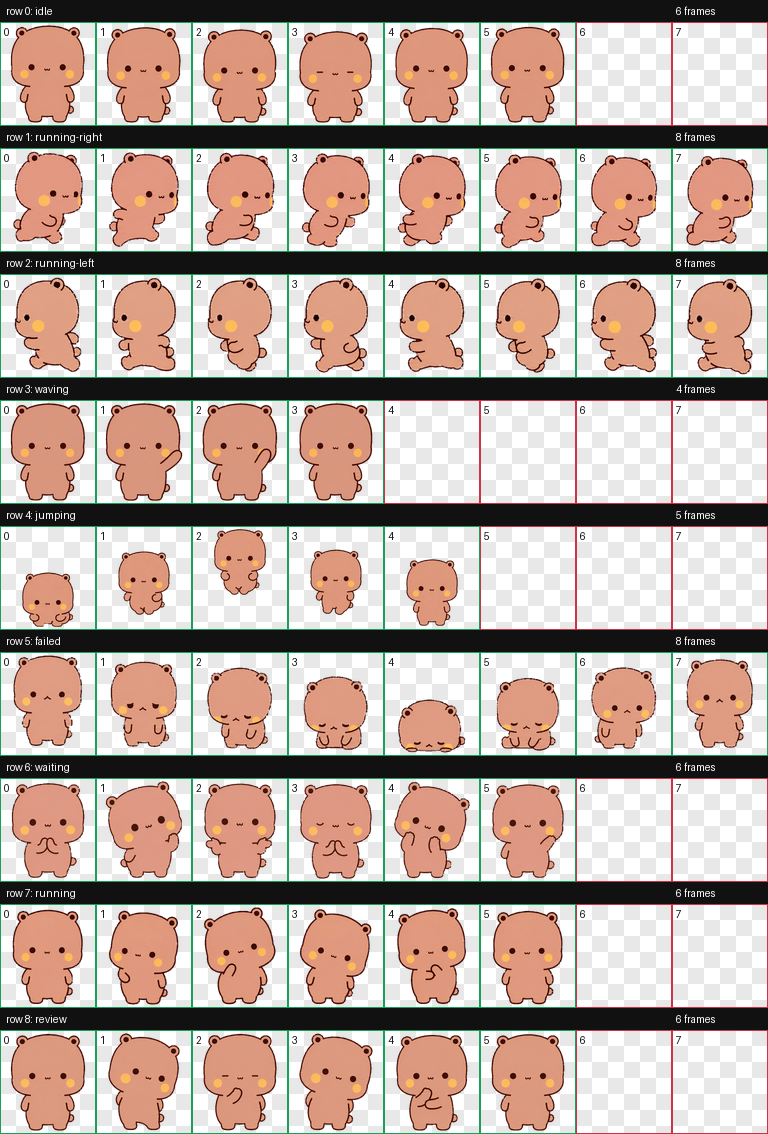
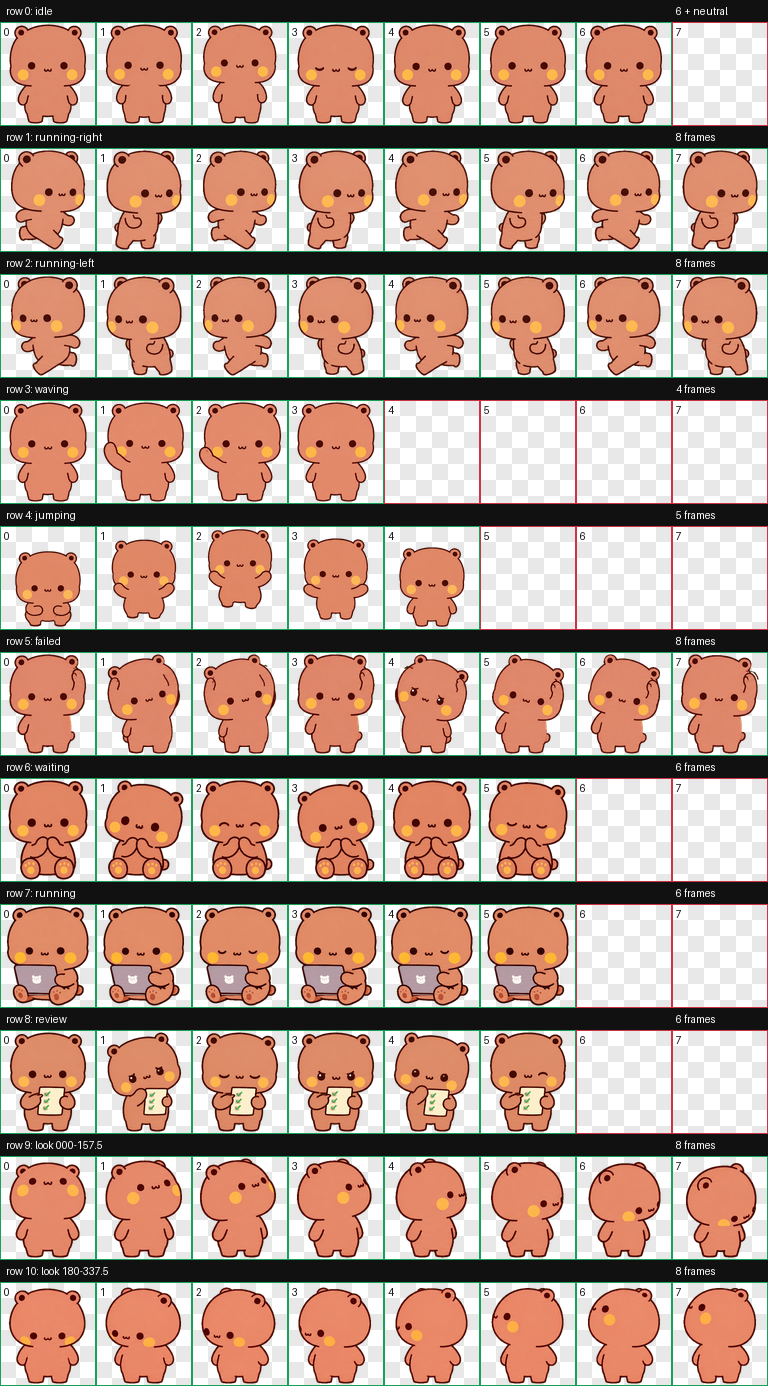
test: validate final v2 pet assets and task variants on both platforms

diff --git a/scripts/build_xiaohongshu_cards.py b/scripts/build_xiaohongshu_cards.py
@@ -47,12 +47,12 @@ def gradient(top: tuple[int, int, int], bottom: tuple[int, int, int]) -> Image.I
     return canvas.convert("RGBA")
 
 
-def sprite(pet_id: str, sleeping: bool = False, row: int = 0, activity: str | None = None) -> Image.Image:
+def sprite(pet_id: str, sleeping: bool = False, row: int = 0, activity: str | None = None, frame: int = 0) -> Image.Image:
     filename = "spritesheet-night.webp" if sleeping else "spritesheet.webp"
     if activity:
         filename = f"variants/{activity}-{'sleep' if sleeping else 'awake'}.webp"
     atlas = Image.open(ROOT / "pets" / pet_id / filename).convert("RGBA")
-    return atlas.crop((0, row * CELL[1], CELL[0], (row + 1) * CELL[1]))
+    return atlas.crop((frame * CELL[0], row * CELL[1], (frame + 1) * CELL[0], (row + 1) * CELL[1]))
 
 
 def fit_sprite(image: Image.Image, max_width: int, max_height: int) -> Image.Image:
@@ -103,7 +103,7 @@ def build_cover() -> None:
     canvas.alpha_composite(bubu, (785 - bubu.width // 2, 730))
     text_center(draw, (265, 1180), "一二", F_LABEL, (77, 58, 55, 255))
     text_center(draw, (785, 1180), "布布", F_LABEL, (77, 58, 55, 255))
-    badge(draw, (348, 1257), "GitHub 已开源", (87, 71, 68, 230), (255, 255, 255, 255))
+    badge(draw, (400, 1257), "安装代码已开源", (87, 71, 68, 230), (255, 255, 255, 255))
     footer(draw)
     canvas.convert("RGB").save(OUTPUT / "01-cover.png", quality=95)
 
@@ -127,7 +127,7 @@ def build_sleep() -> None:
         draw.rounded_rectangle(rect, radius=30, fill=(255, 255, 255, 225))
         text_center(draw, (left + 232, top + 10), label, F_LABEL, (59, 65, 102, 255))
         for pet_id, center_x in (("yier", left + 125), ("bubu", left + 340)):
-            pet = fit_sprite(sprite(pet_id, sleeping, row, activity), 175, 160)
+            pet = fit_sprite(sprite(pet_id, sleeping, row, activity, 2 if row == 5 else 0), 175, 160)
             canvas.alpha_composite(pet, (center_x - pet.width // 2, top + 53 + 160 - pet.height))
     text_center(draw, (540, 1320), "22:00–08:00，空闲时自动入睡", F_SMALL, (67, 73, 111, 255))
     footer(draw)
@@ -143,9 +143,8 @@ def build_install() -> None:
     draw.rounded_rectangle((65, 475, 1015, 1035), radius=45, fill=(44, 40, 40, 245))
     badge(draw, (100, 535), "复制这句话", (229, 177, 159, 255), (51, 42, 39, 255))
     command_lines = [
-        "帮我安装或更新这两个宠物：",
-        "https://github.com/skye-luo/",
-        "yier-bubu-codex-pets",
+        "帮我安装或更新这个宠物包：",
+        "https://github.com/skye-luo/yier-bubu-codex-pets",
     ]
     for index, command in enumerate(command_lines):
         draw.text((100, 665 + index * 72), command, font=F_CODE, fill=(245, 241, 237, 255))

diff --git a/tests/test_scheduler_integration.py b/tests/test_scheduler_integration.py
@@ -1,0 +1,48 @@
+"""Run the real scheduler against an isolated home, never the live app."""
+import json
+import os
+from pathlib import Path
+import subprocess
+import sys
+import tempfile
+import unittest
+
+
+ROOT = Path(__file__).resolve().parents[1]
+
+
+class SchedulerIntegrationTests(unittest.TestCase):
+    def test_all_task_and_time_combinations_preserve_point_and_selection(self):
+        with tempfile.TemporaryDirectory() as folder:
+            home = Path(folder) / ".codex"
+            assets = home / "pet-sleep-mode" / "assets"
+            assets.mkdir(parents=True)
+            config = '[desktop]\nselected-avatar-id = "custom:bubu"\n'
+            (home / "config.toml").write_text(config, encoding="utf-8")
+            for pet in ("yier", "bubu", "dianzai"):
+                (home / "pets" / pet).mkdir(parents=True)
+                for mode in ("awake", "sleep"):
+                    (assets / f"{pet}-{mode}.webp").write_bytes(f"{pet}:{mode}".encode())
+                    if pet != "dianzai":
+                        for kind in ("research", "writing"):
+                            (assets / f"{pet}-{kind}-{mode}.webp").write_bytes(f"{pet}:{kind}:{mode}".encode())
+            env = dict(os.environ, CODEX_PET_NODE=str(home / "no-live-app"))
+            for mode in ("awake", "sleep"):
+                for kind in ("coding", "research", "writing"):
+                    command = [sys.executable, str(ROOT / "scripts/pet_sleep_scheduler.py"),
+                               "--codex-root", str(home), "--mode", mode, "--activity", kind]
+                    subprocess.run(command, check=True, env=env, capture_output=True)
+                    for pet in ("yier", "bubu", "dianzai"):
+                        suffix = f"{kind}:{mode}" if pet != "dianzai" and kind != "coding" else mode
+                        self.assertEqual((home / "pets" / pet / "spritesheet.webp").read_bytes(), f"{pet}:{suffix}".encode())
+                    state = json.loads((home / "pet-sleep-mode/state.json").read_text())
+                    self.assertEqual((state["last_mode"], state["last_activity"]), (mode, kind))
+                    self.assertEqual((home / "config.toml").read_text(), config)
+            before = (home / "pets/bubu/spritesheet.webp").read_bytes()
+            subprocess.run(command[:-4] + ["--mode", "awake", "--activity", "coding", "--dry-run"],
+                           check=True, env=env, capture_output=True)
+            self.assertEqual((home / "pets/bubu/spritesheet.webp").read_bytes(), before)
+
+
+if __name__ == "__main__":
+    unittest.main()

diff --git a/scripts/pet_sleep_scheduler.py b/scripts/pet_sleep_scheduler.py
@@ -28,8 +28,11 @@ SETTING_RE = re.compile(
 
 
 def parse_args() -> argparse.Namespace:
-    codex_root = Path(os.environ.get("CODEX_HOME", Path.home() / ".codex"))
-    runtime_root = codex_root / "pet-sleep-mode"
+    script_root = Path(__file__).resolve().parent
+    codex_root = (
+        script_root.parent if script_root.name == "pet-sleep-mode"
+        else Path(os.environ.get("CODEX_HOME", Path.home() / ".codex"))
+    )
     parser = argparse.ArgumentParser(
         description=(
             "22:00–08:00 自动把一二/布布的待机动作换成睡觉，"
@@ -57,19 +60,19 @@ def parse_args() -> argparse.Namespace:
     parser.add_argument(
         "--assets",
         type=Path,
-        default=runtime_root / "assets",
+        default=None,
         help="白天/夜间图集目录。",
     )
     parser.add_argument(
         "--config",
         type=Path,
-        default=codex_root / "config.toml",
+        default=None,
         help="Codex config.toml 路径；只用于迁移旧睡觉宠物 ID。",
     )
     parser.add_argument(
         "--state",
         type=Path,
-        default=runtime_root / "state.json",
+        default=None,
         help="记录最近一次图集切换结果。",
     )
     parser.add_argument(
@@ -77,7 +80,12 @@ def parse_args() -> argparse.Namespace:
         action="store_true",
         help="只输出目标，不修改图集、配置或状态。",
     )
-    return parser.parse_args()
+    args = parser.parse_args()
+    runtime_root = args.codex_root / "pet-sleep-mode"
+    args.assets = args.assets or runtime_root / "assets"
+    args.config = args.config or args.codex_root / "config.toml"
+    args.state = args.state or runtime_root / "state.json"
+    return args
 
 
 def get_selected_avatar(config_text: str) -> str | None:

diff --git a/scripts/activity_state.py b/scripts/activity_state.py
@@ -14,8 +14,8 @@ MAX_AGE_SECONDS = 30 * 60
 HOLD_SECONDS = 30
 KINDS = ("coding", "research", "writing")
 PATTERNS = {
-    "research": r"查资料|查找资料|搜索|调研|检索|search_query|web__run|web\.run|research|browse|look up",
-    "writing": r"写作|写文章|写报告|写文案|写正文|写周报|写方案|写邮件|做PPT|做演示|写文档|规划|润色|改写|生成文档|docx|pptx|write (?:a |an )?(?:report|article|email)|draft",
+    "research": r"查.{0,4}资料|搜索|调研|检索|search_query|web__run|web\.run|research|browse|look up",
+    "writing": r"写作|写.{0,8}(?:文章|报告|文案|正文|周报|方案|邮件|文档)|(?:做|制作|生成).{0,4}(?:PPT|演示)|规划|润色|改写|生成文档|docx|pptx|write (?:a |an )?(?:report|article|email)|draft",
     "coding": r"写代码|编程|修复|修bug|改代码|开发|实现|测试|重构|coding|debug|refactor|pytest|npm test|apply_patch",
 }
 

diff --git a/tests/test_activity_state.py b/tests/test_activity_state.py
@@ -45,6 +45,11 @@ class ActivityTests(unittest.TestCase):
         self.assertEqual(stable_activity("research", "same", state, now)[0], "writing")
         self.assertEqual(stable_activity("research", "new", state, now)[0], "research")
 
+    def test_conversational_chinese_requests(self):
+        for text, expected in [("写一篇文章", "writing"), ("帮我写一个小红书文案", "writing"),
+                               ("做个PPT", "writing"), ("查一下资料", "research")]:
+            self.assertEqual(classify(text), expected)
+
     def test_day_night_boundaries(self):
         for hour, expected in [(0, "sleep"), (7, "sleep"), (8, "awake"), (21, "awake"), (22, "sleep")]:
             self.assertEqual(desired_mode("auto", dt.datetime(2026, 9, 12, hour)), expected)

diff --git a/README.md b/README.md
@@ -1,12 +1,14 @@
-# 一二 × 布布：Codex 宠物
+# 一二 × 布布 × 点仔：Codex 宠物
 
-一个只包含“一二”和“布布”的独立 Codex Desktop 宠物项目。v2.0.0 更新了两只宠物的形象和循环动作：白天精神满满，查资料抱书、写代码抱电脑、写作抱本子；晚上 22:00–次日 08:00 空闲时自动睡觉。
+统一的 Codex Desktop 宠物项目，包含“一二”“布布”和“点仔”。v2.0.0 更新了一二、布布的形象和循环动作：白天精神满满，查资料抱书、写代码抱电脑、写作抱本子；晚上 22:00–次日 08:00 空闲时自动睡觉。点仔原有形象、完整工作动画和夜间睡眠保持不变。
+
+原 `yier-bubu-codex-pet`（单数）项目的 Windows 安装和任务识别功能已合并至本项目（复数 `pets`）。今后的更新以这里为准；旧仓库、历史版本和下载链接保留。
 
 > 非官方、非商业的粉丝体验版本。角色素材不在 MIT 许可范围内，详见 [ASSET-NOTICE.md](ASSET-NOTICE.md)。
 
 ## 预览
 
-![新版形象与状态设计](docs/state-concept.png)
+![实际安装素材的八种状态](social/xiaohongshu/02-day-night.png)
 
 | 状态 | 常驻造型 |
 | --- | --- |
@@ -25,6 +27,8 @@
 | --- | --- |
 | ![一二待机动画](docs/previews/yier-idle.gif) | ![布布待机动画](docs/previews/bubu-idle.gif) |
 
+点仔继续保留：[白天动画](docs/previews/dianzai-idle.gif) · [夜间动画](docs/previews/dianzai-sleep.gif) · [完整动作表](docs/dianzai-contact-sheet.png)。本次新增的三种任务工作造型仅适用于一二、布布。
+
 | 一二夜间待机 | 布布夜间待机 |
 | --- | --- |
 | ![一二睡眠动画](docs/previews/yier-sleep.gif) | ![布布睡眠动画](docs/previews/bubu-sleep.gif) |
@@ -33,20 +37,23 @@
 - [布布完整动作表](docs/bubu-contact-sheet.png)
 - [一二夜间动作表：仅待机行睡觉](docs/yier-sleep-contact-sheet.png)
 - [布布夜间动作表：仅待机行睡觉](docs/bubu-sleep-contact-sheet.png)
+- [最初确认的形象设计稿](docs/state-concept.png)
 
 ## 一行安装
+
+需要支持 v2 自定义宠物图集的 Codex Desktop。若旧版应用不显示宠物或注视动作异常，请先更新应用。下面命令同时适用于首次安装和从旧项目升级。
 
 ### Windows
 
 打开 PowerShell，复制这一行（不需要提前安装 Git）：
 
 ```powershell
-irm https://raw.githubusercontent.com/skye-luo/yier-bubu-codex-pet/v2.0.0/quick-install.ps1 | iex
+irm https://raw.githubusercontent.com/skye-luo/yier-bubu-codex-pets/v2.0.0/quick-install.ps1 | iex
 ```
 
 这条命令会：
 
-- 将“一二”和“布布”安装到 `%USERPROFILE%\.codex\pets`；
+- 将“一二”“布布”和“点仔”安装到 `%USERPROFILE%\.codex\pets`；
 - 注册一个当前用户的 Windows 定时任务，每分钟运行一次，运行期间每 5 秒检查任务类型与本地时间；
 - 每天 22:00–次日 08:00 只把待机动作换成睡觉，其他工作状态不变；
 - 不创建“一二（睡觉）”或“布布（睡觉）”等独立角色。
@@ -56,8 +63,8 @@ irm https://raw.githubusercontent.com/skye-luo/yier-bubu-codex-pet/v2.0.0/quick-
 如果希望先查看脚本再执行：
 
 ```powershell
-git clone --branch v2.0.0 https://github.com/skye-luo/yier-bubu-codex-pet.git
-cd yier-bubu-codex-pet
+git clone --branch v2.0.0 https://github.com/skye-luo/yier-bubu-codex-pets.git
+cd yier-bubu-codex-pets
 powershell -ExecutionPolicy Bypass -File .\install.ps1
 powershell -ExecutionPolicy Bypass -File .\install-sleep-mode.ps1
 ```
@@ -65,8 +72,8 @@ powershell -ExecutionPolicy Bypass -File .\install-sleep-mode.ps1
 手动测试 Windows 睡眠切换：
 
 ```powershell
-powershell -ExecutionPolicy Bypass -File "$HOME\.codex\yier-bubu-pet-sleep-mode\pet_sleep_scheduler.ps1" -Mode Sleep
-powershell -ExecutionPolicy Bypass -File "$HOME\.codex\yier-bubu-pet-sleep-mode\pet_sleep_scheduler.ps1" -Mode Awake
+powershell -ExecutionPolicy Bypass -File "$HOME\.codex\pet-sleep-mode\pet_sleep_scheduler.ps1" -Mode Sleep
+powershell -ExecutionPolicy Bypass -File "$HOME\.codex\pet-sleep-mode\pet_sleep_scheduler.ps1" -Mode Awake
 ```
 
 Windows 卸载（文件会移动到备份目录，不会直接删除）：
@@ -79,7 +86,7 @@ powershell -ExecutionPolicy Bypass -File .\uninstall.ps1
 ### macOS
 
 ```bash
-curl -fsSL https://raw.githubusercontent.com/skye-luo/yier-bubu-codex-pet/v2.0.0/quick-install.sh | bash
+curl -fsSL https://raw.githubusercontent.com/skye-luo/yier-bubu-codex-pets/v2.0.0/quick-install.sh | bash
 ```
 
 这条命令会安装两个宠物并启用 22:00–08:00 自动睡眠。安装完成后重启 Codex，进入 `设置 → 外观 → Pets`，选择“一二”或“布布”。
@@ -87,8 +94,8 @@ curl -fsSL https://raw.githubusercontent.com/skye-luo/yier-bubu-codex-pet/v2.0.0
 如果你希望先查看脚本再执行，也可以使用透明的分步安装：
 
 ```bash
-git clone --branch v2.0.0 https://github.com/skye-luo/yier-bubu-codex-pet.git
-cd yier-bubu-codex-pet
+git clone --branch v2.0.0 https://github.com/skye-luo/yier-bubu-codex-pets.git
+cd yier-bubu-codex-pets
 bash install.sh
 bash install-sleep-mode.sh
 ```
@@ -104,8 +111,8 @@ bash install-sleep-mode.sh
 手动测试：
 
 ```bash
-python3 ~/.codex/yier-bubu-pet-sleep-mode/pet_sleep_scheduler.py --mode sleep
-python3 ~/.codex/yier-bubu-pet-sleep-mode/pet_sleep_scheduler.py --mode awake
+python3 ~/.codex/pet-sleep-mode/pet_sleep_scheduler.py --mode sleep
+python3 ~/.codex/pet-sleep-mode/pet_sleep_scheduler.py --mode awake
 ```
 
 ## 自动识别的范围
@@ -126,14 +133,27 @@ bash uninstall.sh
 
 卸载脚本不会直接删除文件，而会移动到 `~/.codex/pets-backups/`，方便恢复。
 
+## 重新组装动作变体
+
+`state-source/` 保存本版已经清理透明边缘的六帧素材行；`sleep-source/` 保留旧版来源，仅供历史参考。安装不需要 Pillow；只有重新组装图片时需要。
+
+```bash
+python3 scripts/build_night_atlas.py --awake pets/yier/spritesheet.webp --sleep-row state-source/yier/sleep.webp --output pets/yier/spritesheet-night.webp
+python3 scripts/build_activity_atlases.py --pet-dir pets/yier --research-row state-source/yier/research.webp --writing-row state-source/yier/writing.webp
+```
+
+布布将命令中的 `yier` 换成 `bubu`。脚本只拼装已确认素材，不生成或重画姿势。修改后运行 `node scripts/update_checksums.mjs` 和 `bash verify.sh`。
+
 ## 项目结构
 
 ```text
 .
 ├── pets/
 │   ├── yier/
-│   └── bubu/
+│   ├── bubu/
+│   └── dianzai/
 ├── sleep-source/
+├── state-source/
 ├── docs/
 ├── scripts/
 ├── launchd/

diff --git a/social/xiaohongshu/copy.md b/social/xiaohongshu/copy.md
@@ -1,25 +1,9 @@
-# 小红书发布文案
+# 小红书笔记
 
-## 标题
+保留已发布笔记的标题「一二和布布住进 Codex 了！🐼🐻」。
 
-我把一二和布布搬进 Codex 啦！
+最新正文见 [update-draft.md](update-draft.md)。三张配图使用本目录 `01-cover.png`、`02-day-night.png`、`03-install.png`，由实际安装素材生成，不使用仅供方向确认的概念稿冒充成品。
 
-## 正文
+统一项目：https://github.com/skye-luo/yier-bubu-codex-pets
 
-把一二和布布做成了可以住在 Codex Desktop 里的小宠物 🐼🐻
-
-它们不是静态贴纸：
-• 工作时会跑动、挥手、等待和检查
-• 每天 22:00–次日 08:00，没任务时自动趴下睡觉
-• 一旦开始工作，会继续使用原来的工作动画
-• 设置里始终只有“一二”和“布布”，不会多出睡觉版角色
-
-这次已经拆成只包含这两个角色的独立项目，安装代码已开源：
-GitHub：skye-luo/yier-bubu-codex-pet
-Release：v1.0.1
-
-macOS 现在只要复制第 3 张图里的一条命令。安装完成后重启 Codex，在“设置 → 外观 → Pets”中选择角色。
-
-这是非官方、非商业的粉丝体验版；角色素材不用于商业用途，完整声明见仓库 ASSET-NOTICE.md。
-
-#Codex #AI宠物 #桌面宠物 #开源项目 #GitHub #一二和布布 #效率工具 #Mac
+发布前需用户确认标题、正文与图片预览。

diff --git a/social/xiaohongshu/update-draft.md b/social/xiaohongshu/update-draft.md
@@ -13,15 +13,15 @@
 
 安装方法（旧版也可以这样更新）：
 
-1⃣直接告诉 Codex：「帮我安装或更新 https://github.com/skye-luo/yier-bubu-codex-pet 里的宠物」。
+1⃣直接告诉 Codex：「帮我安装或更新 https://github.com/skye-luo/yier-bubu-codex-pets 里的宠物」。
 
 2⃣自己一行安装：
 
 Windows 打开 PowerShell：
-irm https://raw.githubusercontent.com/skye-luo/yier-bubu-codex-pet/v2.0.0/quick-install.ps1 | iex
+irm https://raw.githubusercontent.com/skye-luo/yier-bubu-codex-pets/v2.0.0/quick-install.ps1 | iex
 
 macOS 打开“终端”：
-curl -fsSL https://raw.githubusercontent.com/skye-luo/yier-bubu-codex-pet/v2.0.0/quick-install.sh | bash
+curl -fsSL https://raw.githubusercontent.com/skye-luo/yier-bubu-codex-pets/v2.0.0/quick-install.sh | bash
 
 装好后重启 Codex，在「设置 → Pets」选择一二或布布。
 
